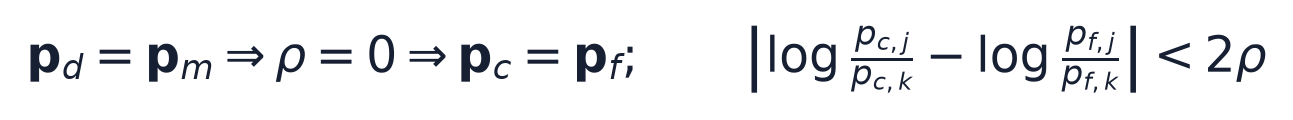
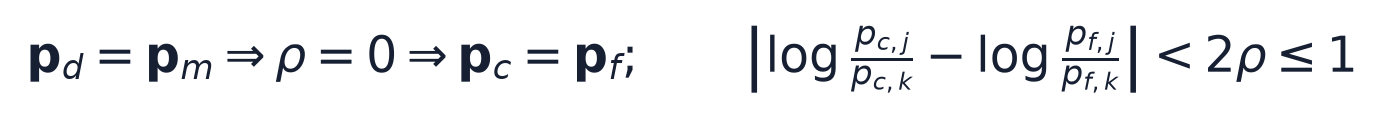
theory: bound CGDC correction budget

Changed region(s): [[0.5259, 0.2, 0.9899, 0.775], [0.0, 0.275, 0.495, 0.7]]

diff --git a/scripts/update_formal_report_v9.py b/scripts/update_formal_report_v9.py
@@ -117,7 +117,7 @@ def render_formulas() -> dict[str, Path]:
             r"$\mathbf{p}_d=\mathbf{p}_m\Rightarrow\rho=0\Rightarrow"
             r"\mathbf{p}_c=\mathbf{p}_f;\qquad "
             r"\left|\log\frac{p_{c,j}}{p_{c,k}}-\log\frac{p_{f,j}}{p_{f,k}}\right|"
-            r"<2\rho$"
+            r"<2\rho\leq1$"
         ),
     }
     paths: dict[str, Path] = {}
@@ -153,9 +153,9 @@ def _add_theory_statement(document: Document) -> None:
     _add_formula(document, formulas["calibration"], "式（D-2） 分歧触发的受界后验校正")
     _add_body(
         document,
-        "命题 P1（协议一致性）：当 p_d=p_m 时 rho=0，故 p_c=p_f=p_d=p_m。命题 P2（概率有效性）：p_c 为 softmax 输出，非负且四类概率和为 1。命题 P3（有界对数几率修正）：因每个校正残差满足 |s_j|<1，任意类别 j、k 有 |log[p_c(j)/p_c(k)]-log[p_f(j)/p_f(k)]|<2rho。P1-P3 是当前公式与计算图的确定性性质；适配器分解和校正器是否改善分类或校准，必须由以下三随机种子实验检验。",
+        "命题 P1（协议一致性）：当 p_d=p_m 时 rho=0，故 p_c=p_f=p_d=p_m。命题 P2（概率有效性）：p_c 为 softmax 输出，非负且四类概率和为 1。命题 P3（有界对数几率修正）：因每个校正残差满足 |s_j|<1，任意类别 j、k 有 |log[p_c(j)/p_c(k)]-log[p_f(j)/p_f(k)]|<2rho。命题 P4（全局校正预算）：对任意两路四类后验，D_JS 不超过 ln2，故 rho=1-exp[-D_JS]≤0.5，结合 P3 可得任意对数几率修正严格小于 1。P1-P4 是当前公式与计算图的确定性性质；适配器分解和校正器是否改善分类或校准，必须由以下三随机种子实验检验。",
     )
-    _add_formula(document, formulas["bound"], "式（D-3） 协议一致性与分歧相关的有界对数几率修正")
+    _add_formula(document, formulas["bound"], "式（D-3） 协议一致性、分歧相关修正与全局校正预算")
     _add_architecture_figure(document)
 
 

diff --git a/tests/test_hrgv_network.py b/tests/test_hrgv_network.py
@@ -142,6 +142,21 @@ class CGDCProbabilityPrimitiveTests(unittest.TestCase):
         self.assertTrue((calibrated >= 0).all())
         self.assertLessEqual(float(odds_shift[0]), float(2.0 * gain[0, 0]) + 1e-6)
 
+    def test_disagreement_gain_has_global_half_budget(self) -> None:
+        from hrgv_network import disagreement_calibrated_role_probabilities
+
+        direct = self.torch.tensor([[1.0, 0.0, 0.0, 0.0]], dtype=self.torch.float32)
+        mapped = self.torch.tensor([[0.0, 1.0, 0.0, 0.0]], dtype=self.torch.float32)
+        fused = 0.5 * (direct + mapped)
+        residual = self.torch.tensor([[5.0, -5.0, 0.0, 0.0]], dtype=self.torch.float32)
+
+        _, gain = disagreement_calibrated_role_probabilities(
+            fused, direct, mapped, residual, self.torch
+        )
+
+        self.assertGreater(float(gain[0, 0]), 0.49)
+        self.assertLessEqual(float(gain[0, 0]), 0.5 + 1e-6)
+
     def test_adapter_decomposition_penalizes_aligned_residuals_more_than_orthogonal(self) -> None:
         from hrgv_network import adapter_decomposition_loss
 

diff --git a/tests/test_update_formal_report_v9.py b/tests/test_update_formal_report_v9.py
@@ -105,6 +105,8 @@ class FormalReportV9EvidenceTests(unittest.TestCase):
             text = "\n".join(paragraph.text for paragraph in rendered.paragraphs)
             self.assertEqual(text.count("附录 D CGDC-RSG-HRGV 网络理论与实验"), 1)
             self.assertIn("命题 P1", text)
+            self.assertIn("命题 P4", text)
+            self.assertIn("≤0.5", text)
             self.assertIn("Brier", text)
             self.assertIn("不等同于工业分选", text)
 

diff --git a/docs/paper_drafts/cgdc_rsg_hrgv_methods_theory.md b/docs/paper_drafts/cgdc_rsg_hrgv_methods_theory.md
@@ -72,6 +72,10 @@ For any roles j and k, because |s_j|<1 and |s_k|<1,
 
 The correction is therefore bounded by the expert disagreement. The bound does not state that the correction improves every prediction; that is an empirical question.
 
+### Proposition P4: Global correction budget
+
+For any two categorical posteriors, the Jensen-Shannon divergence with natural logarithms satisfies 0 <= D_JS <= ln 2. Therefore 0 <= rho = 1-exp[-D_JS] <= 1/2. Combining this with P3 yields a global log-odds adjustment strictly below one for every pair of roles. This prevents the calibration stage from overturning the RSG posterior through an unbounded correction, even under maximal expert disagreement.
+
 ## 6. Registered Empirical Tests
 
 The following five configurations are compared with the same three seeds: RSG complete, CGDC complete, shared-feature CGDC, unconditional CGDC calibration, and CGDC without the decomposition loss.
